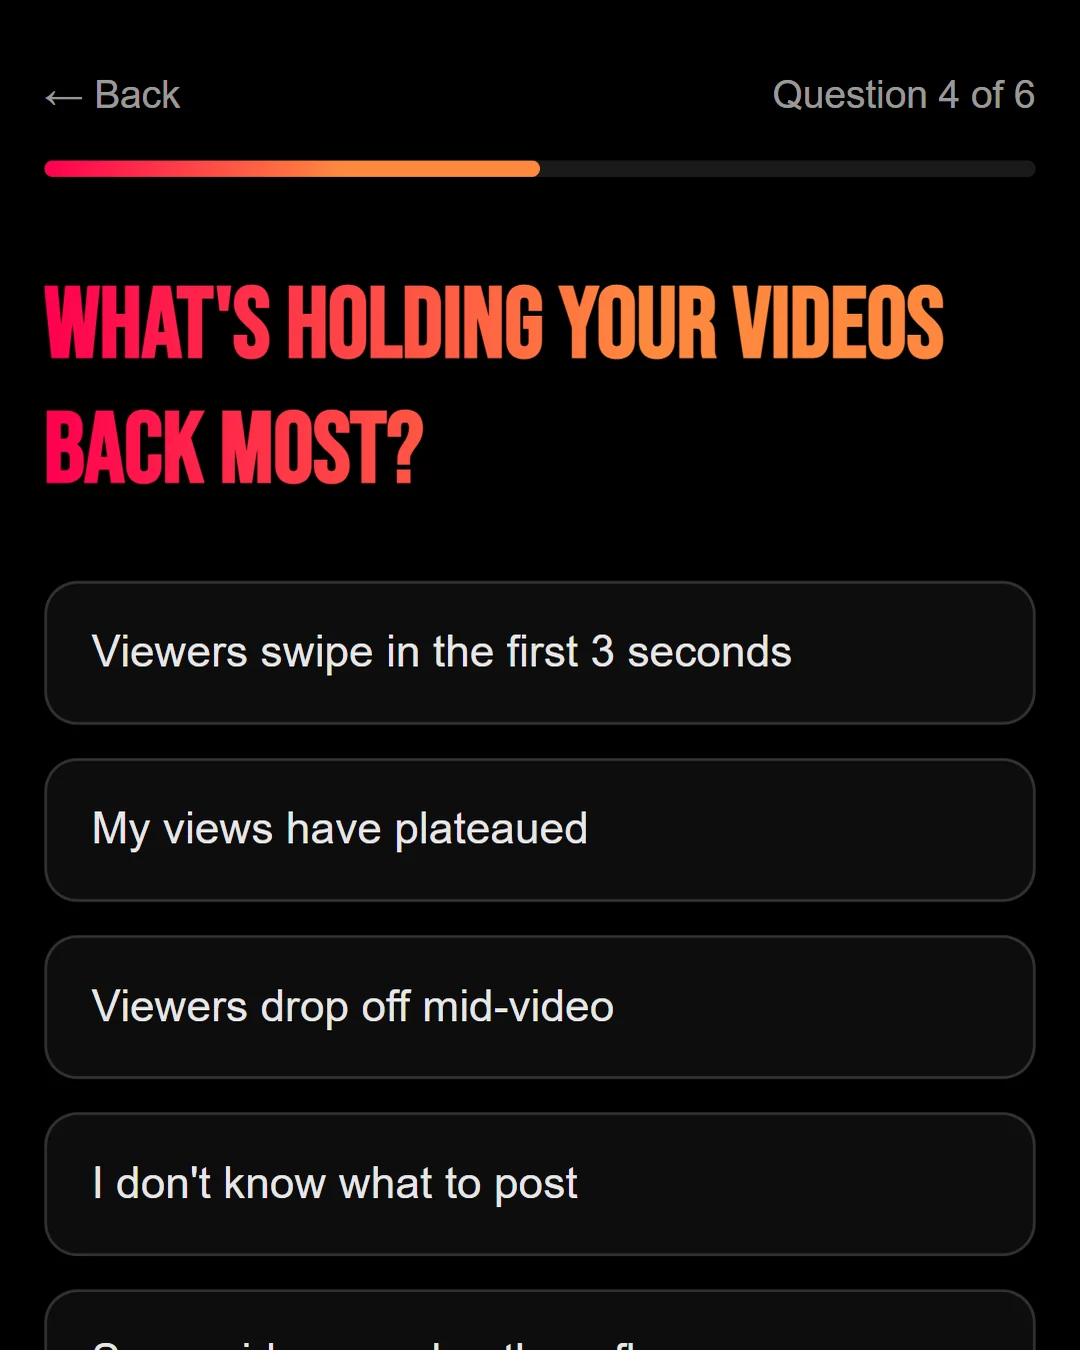
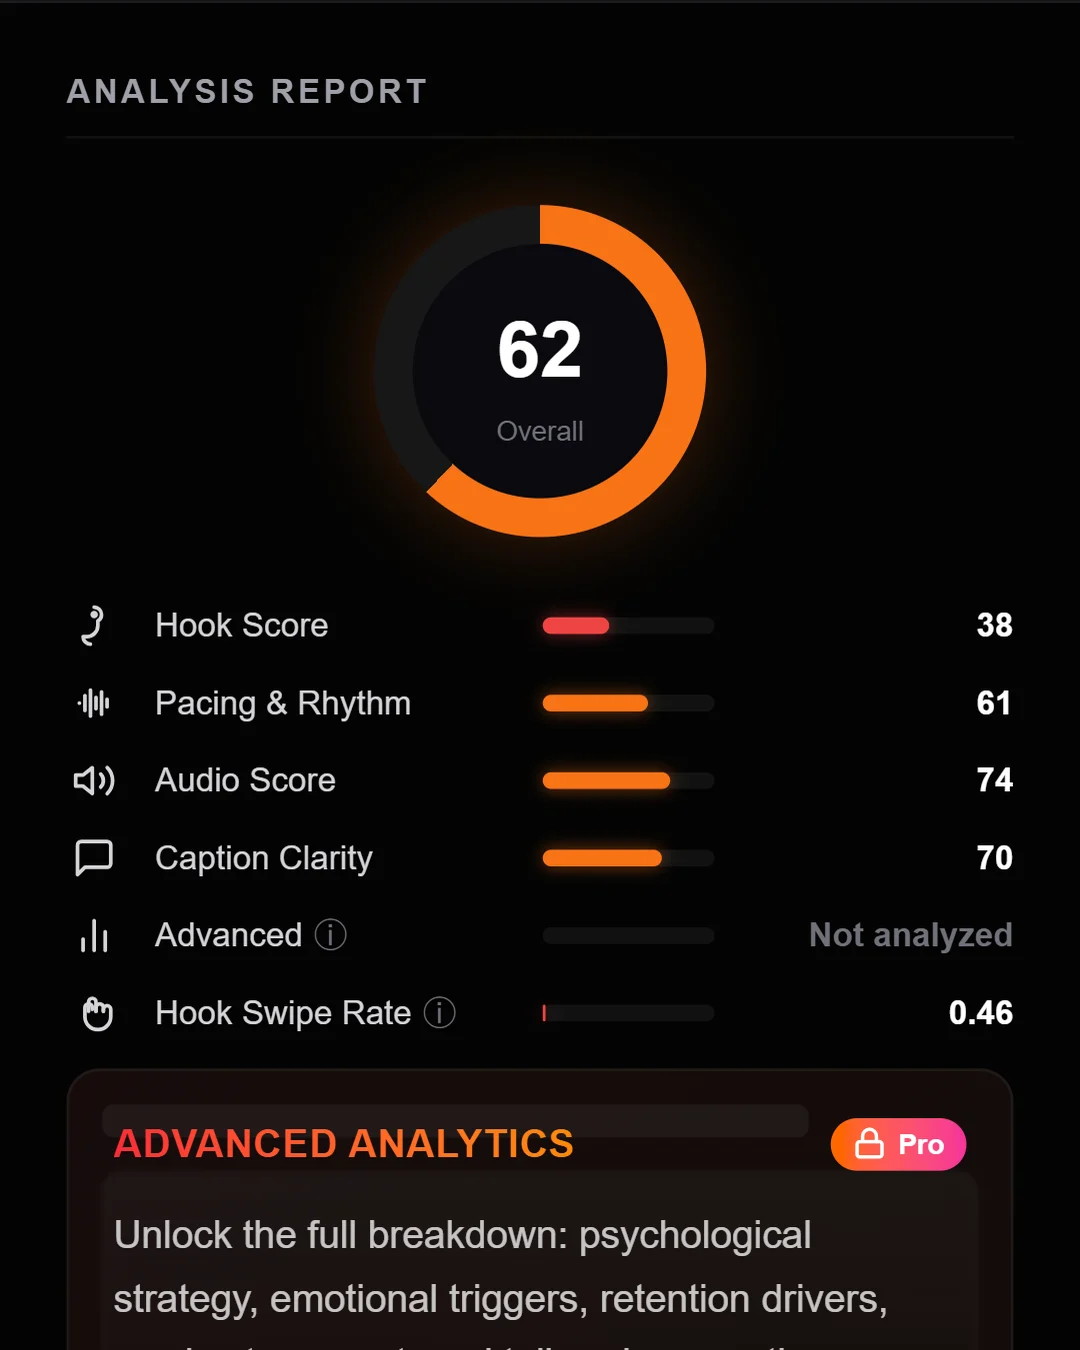
Landing V3: no quiz-question screenshots on the landing page (results + analysis scores instead)

diff --git a/src/components/marketing/landing-v3/HowItWorksPhases.tsx b/src/components/marketing/landing-v3/HowItWorksPhases.tsx
@@ -98,7 +98,7 @@ export function HowItWorksPhases() {
               <Bullet icon={Sparkles}>You get a simple, deterministic diagnosis instead of vague “do better hooks”.</Bullet>
             </>
           }
-          visual={<AssetSlot id="phase-1" alt="Quiz in progress on a phone" aspect="4 / 5" />}
+          visual={<AssetSlot id="phase-1" alt="Vireact analysis report with hook, pacing, audio and caption scores" aspect="4 / 5" />}
         />
 
         <PhaseCard

diff --git a/src/content/assets.manifest.ts b/src/content/assets.manifest.ts
@@ -167,7 +167,7 @@ export const brandAssetManifest: BrandAssetSlot[] = [
     'phase-1.webp',
     'image',
     '1080×1350 WebP (4:5)',
-    'Screenshot of the quiz in progress (phone mockup or similar).',
+    'Screenshot of the analysis report scores (not the quiz: quiz questions only appear after the CTA).',
     { width: 1080, height: 1350 }
   ),
   slot(
